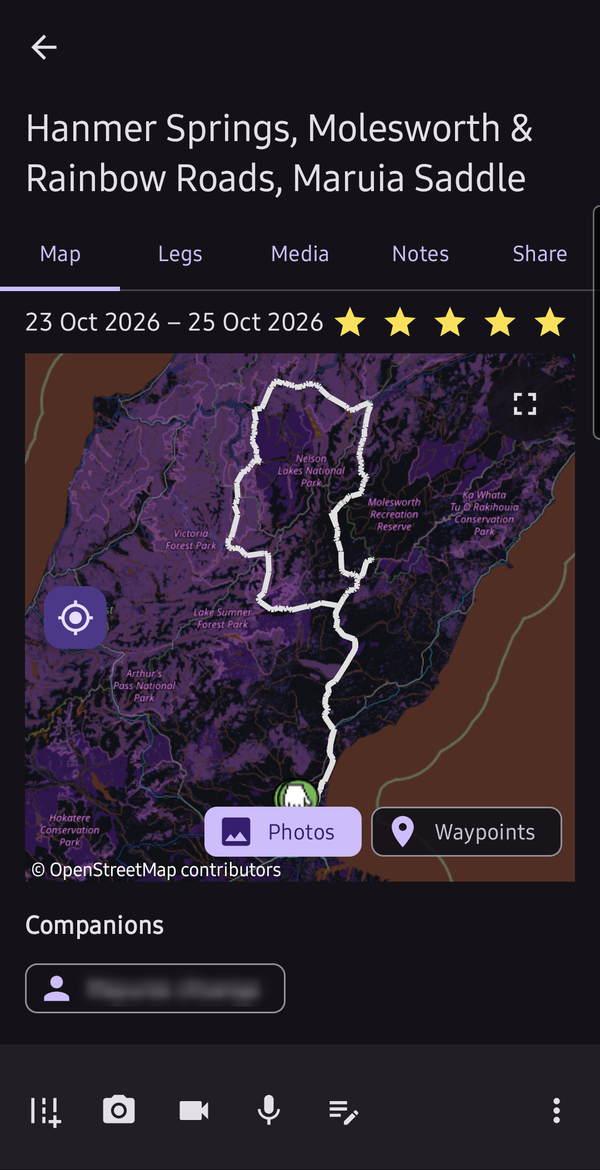
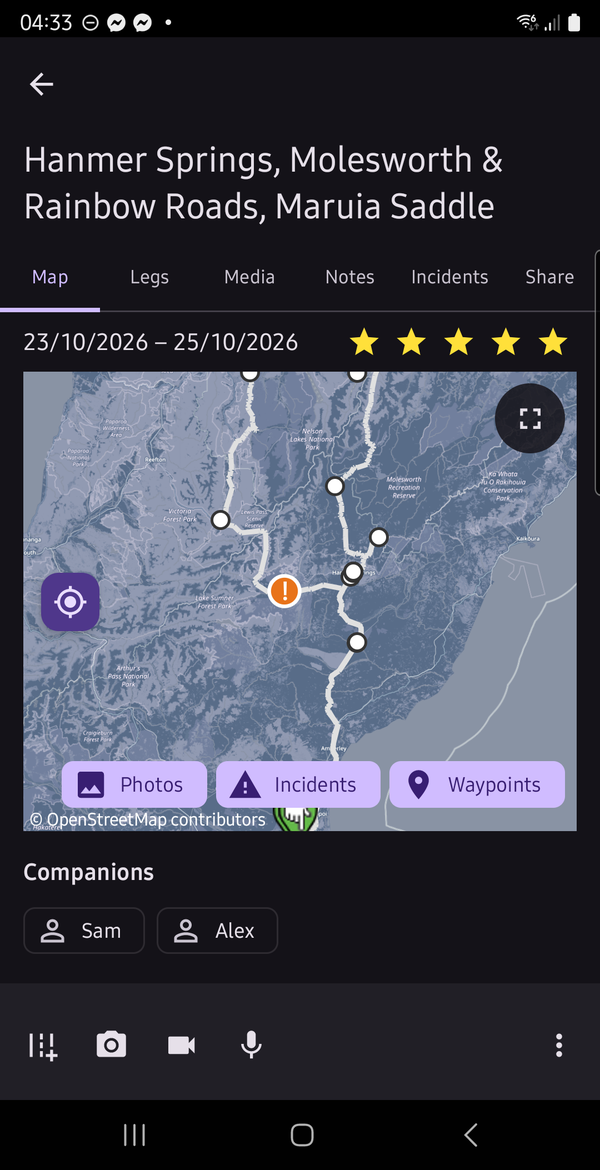
Refresh store screenshots and add incident highlights
Retake trips, trip-route, trip-legs, trip-media, trip-map and stats from the
current UI, add trip-incidents and incidents shots, and add a captioned
1080x2160 Play set in docs/play/screenshots. Update README, website and the
Play listing notes. Share tab and trip video shots are still to do (#3, #4).

diff --git a/docs/index.html b/docs/index.html
@@ -157,6 +157,7 @@ footer a:hover{color:var(--ink)}
       <div class="shots" role="list">
         <figure class="shot" role="listitem"><img src="screenshots/trips.png" width="600" height="1170" loading="lazy" alt="List of trips with star ratings"><figcaption>Your trips</figcaption></figure>
         <figure class="shot" role="listitem"><img src="screenshots/trip-route.png" width="600" height="1170" loading="lazy" alt="A trip's route on the map, coloured by difficulty"><figcaption>Route map</figcaption></figure>
+        <figure class="shot" role="listitem"><img src="screenshots/trip-incidents.png" width="600" height="1170" loading="lazy" alt="An incident on a trip, with its note, the people involved and photos"><figcaption>Incidents</figcaption></figure>
         <figure class="shot" role="listitem"><img src="screenshots/trip-legs.png" width="600" height="1170" loading="lazy" alt="The legs of a trip with transport, times and ratings"><figcaption>Legs</figcaption></figure>
         <figure class="shot" role="listitem"><img src="screenshots/trip-media.png" width="600" height="1170" loading="lazy" alt="Photos and videos attached to a trip"><figcaption>Photos and video</figcaption></figure>
         <figure class="shot" role="listitem"><img src="screenshots/stats.png" width="600" height="1170" loading="lazy" alt="Trip stats: totals and distance by transport"><figcaption>Stats</figcaption></figure>

diff --git a/README.md b/README.md
@@ -14,19 +14,23 @@ All data is stored on the device (Room/SQLite). Nothing is synced automatically;
 ## Screenshots
 
 <p>
-  <img src="docs/screenshots/trips.png" width="19%" alt="List of trips with star ratings">
-  <img src="docs/screenshots/trip-route.png" width="19%" alt="A trip's route on the map, coloured by difficulty">
+  <img src="docs/screenshots/trips.png" width="19%" alt="List of trips with star ratings and incident markers">
+  <img src="docs/screenshots/trip-route.png" width="19%" alt="A trip's route on the map, with an incident marked">
+  <img src="docs/screenshots/trip-incidents.png" width="19%" alt="An incident on a trip, with its note, the people involved and photos">
   <img src="docs/screenshots/trip-legs.png" width="19%" alt="The legs of a trip with transport, times and ratings">
   <img src="docs/screenshots/trip-media.png" width="19%" alt="Photos and videos attached to a trip">
+</p>
+
+The route map fills the screen too, and every incident is listed in one place, alongside the stats:
+
+<p>
+  <img src="docs/screenshots/trip-map.png" width="19%" alt="Full-screen trip map with incidents and photos pinned">
+  <img src="docs/screenshots/incidents.png" width="19%" alt="The Incidents tab listing every incident across trips">
   <img src="docs/screenshots/stats.png" width="19%" alt="Trip stats: totals and distance by transport">
 </p>
 
-The route map fills the screen too:
-
-<p><img src="docs/screenshots/trip-map.png" width="30%" alt="Full-screen trip map"></p>
-
-*Trips, in order: the list, a trip's Map tab, its legs, its media and the stats. A companion's
-name is blurred.*
+*Sample companions and incident note; the trip is real but the names are not. Captioned, full-size
+versions for the Play listing are in `docs/play/screenshots/`.*
 
 ## Features
 

diff --git a/docs/play/listing.md b/docs/play/listing.md
@@ -72,6 +72,23 @@ Support: support@jonesie.net.nz
 
 Adventure Timeline is an independent project and is not affiliated with or endorsed by Google. "Google" and "Google Maps Timeline" are trademarks of Google LLC, used only to describe the files the app can import.
 
+## Screenshots
+
+Upload in this order from `docs/play/screenshots/` (1080x2160 phone, 2:1, captioned). The incident
+shots (02 and 03) are the point of difference, so keep them in the first four. Plain, uncaptioned
+copies for the README and website are in `docs/screenshots/`. Built from sample companions on a real trip
+(names changed), with the home area kept off the maps. Still to add: the Share tab once #3 lands, and
+the trip video screen once #4 is built. No 7"/10" tablet shots yet; the listing doesn't require them.
+
+1. 01-route-map: route on the map
+2. 02-incident-highlights: incident with note, people and photos
+3. 03-all-incidents: Incidents tab
+4. 04-trips: rated trip list
+5. 05-legs, 06-photos-video, 07-full-map, 08-stats
+
+The feature graphic (`feature-graphic.png`, 1024x500) shows the app name and theme, not the UI, so it
+still matches.
+
 ## Keywords worked in
 
 travel diary, trip diary, travel journal, trip log, road trip journal, trip tracker, route map, travel log,
